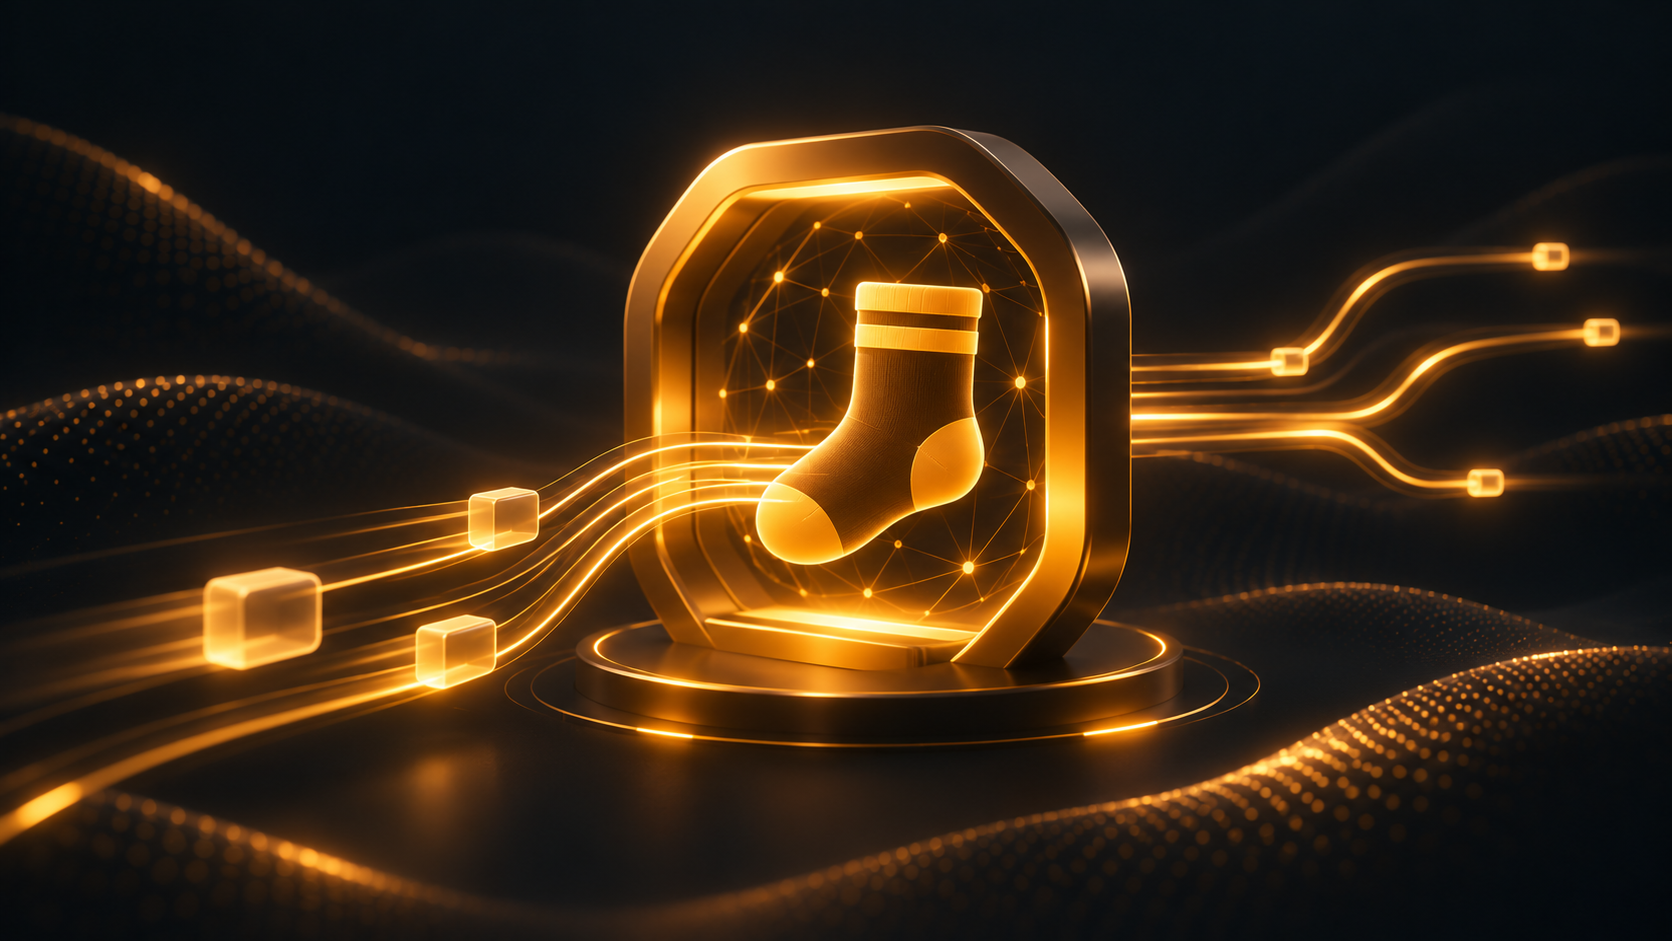
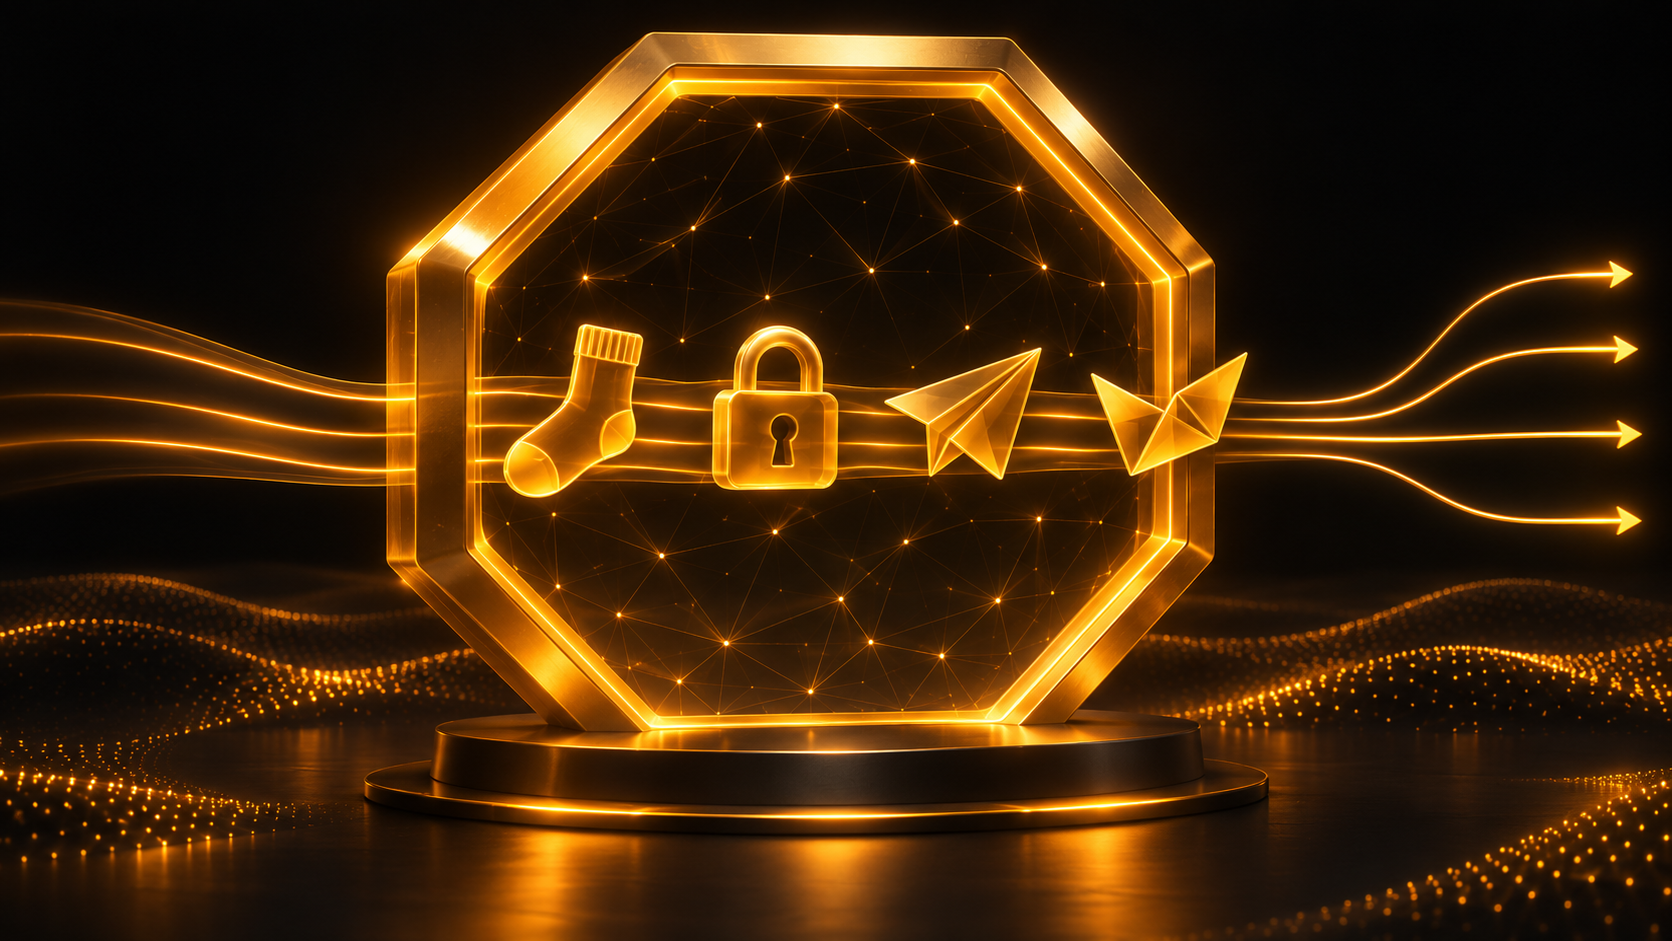
docs(readme): refresh documentation with v1.9.5 features and assets

diff --git a/README.md b/README.md
@@ -4,31 +4,34 @@
 
 </div>
 
-> **Self-hosted VPN dashboard.** Your VPS, your rules — no cloud provider or middlemen.
+> **Self-hosted VPN & proxy orchestration dashboard.** Your VPS nodes, your rules — no cloud provider or middlemen.
 
-Hoplyra is not just a panel for a single VPN. It is a **multi-hop chain builder**: you compose a route from different protocols and servers, and the system links the hops, configures routing, and delivers **one client config** — at the chain entry.
-
----
-
-## 🧅 AmneziaWG 3.1 — Default and Stealth
-
-Hoplyra speaks the full **AmneziaWG 3.1** protocol with two one-click modes:
-
-- **Default** — plain AWG 3.1 with no obfuscation, for networks where WireGuard is not filtered
-- **Stealth** — automatic obfuscation profile: junk packets (`Jc/Jmin/Jmax`), packet-size shifts (`S1–S4`), magic headers (`H1–H4`), and a CPS mimicry chain (`I1–I5`)
-
-Stealth ships **QUIC / TLS / DNS / SIP / STUN** mimicry profiles out of the box. Advanced 3.1 options are available when you need full control: **`HeaderProtectionKey`**, **`ContentPaddingAddition`**, **`RandomTrailers`**, **`DisableCookies`**.
+Hoplyra is not just a panel for a single VPN. It is a **multi-hop chain builder and node orchestrator**: compose routes from different protocols across your own servers, deploy standalone proxies or **Hysteria Realms** relay brokers, monitor node reachability, and deliver ready-to-import client configs from a single **Ink Amber** web UI.
 
 ---
 
-## 🔗 Chains
+## 🛡 Protocols
 
-A typical VPN is one tunnel to one server. Hoplyra lets you **combine multiple protocols into a single route** across your VPS nodes:
+| | ID | Protocol | Transport / Port | Highlights |
+|:-:|---|----------|------------------|------------|
+| <img src="frontend/src/assets/icons/amneziawg.png" width="72" alt="AmneziaWG"> | `awg` | **AmneziaWG 3.1** | `55424/udp` | Containerized; **Default** & **Stealth** modes, CPS mimicry (`I1–I5`), `HPK` |
+| <img src="frontend/src/assets/icons/wireguard.png" width="72" alt="WireGuard"> | `wg` | **WireGuard** | `51820/udp` | Containerized fast kernel/userspace tunnel, multi-peer, QR configs |
+| <img src="frontend/src/assets/icons/openvpn.png" width="72" alt="OpenVPN"> | `openvpn` | **OpenVPN** | `1194/udp` or `tcp` | Managed PKI, UDP/TCP profiles, multi-client `.ovpn` exports |
+| <img src="frontend/src/assets/icons/xray.png" width="72" alt="Xray"> | `xray` | **Xray VLESS** | `443/tcp` | TLS / **REALITY**, ClientHello fragmentation, Chrome fingerprint, multi-peer URIs |
+| <img src="frontend/src/assets/icons/hysteria2.png" width="72" alt="Hysteria 2"> | `hysteria2` | **Hysteria 2** | `443/udp` | QUIC congestion control, port hopping, cert pinning, multi-peer & QR |
+| <img src="frontend/src/assets/icons/shadowquic.png" width="72" alt="ShadowQUIC"> | `shadowquic` | **ShadowQUIC** | `443/udp` | **0-RTT** QUIC proxy with **JLS** TLS SNI camouflage and zero cert overhead |
+| <img src="frontend/src/assets/icons/tor.png" width="72" alt="Tor"> | `tor` | **Tor (SOCKS)** | `9050/tcp` | Relay hop or rotating-IP exit inside multi-hop chains |
 
-- **Mix protocols** — AWG, WireGuard, OpenVPN, Xray, and Tor in one chain, each hop on its own server
-- **One config for the client** — connect only to the entry; middle hops and exit are configured for you
-- **Tor in the chain** — as a relay hop or as an exit with a changing IP
-- **Smart deploy** — background deployment with hop-by-hop progress: gateway, iptables, containers, and inter-server links without manual SSH
+### 🧅 AmneziaWG 3.1 — Default and Stealth
+
+Hoplyra speaks full **AmneziaWG 3.1** in an isolated container (`hoplyra-awg:1`) with two one-click modes:
+
+- **Default** — plain AWG 3.1 without obfuscation when WireGuard is unfiltered
+- **Stealth** — automatic obfuscation profile: junk packets (`Jc/Jmin/Jmax`), packet-size shifts (`S1–S4`), magic headers (`H1–H4`), and CPS mimicry chains (`I1–I5`) with **QUIC / TLS / DNS / SIP / STUN** presets plus `HeaderProtectionKey`, `ContentPaddingAddition`, `RandomTrailers`, and `DisableCookies`
+
+---
+
+## 🔗 Multi-Chains
 
 <div align="center">
 
@@ -36,58 +39,56 @@ A typical VPN is one tunnel to one server. Hoplyra lets you **combine multiple p
 
 </div>
 
-**Common patterns:** `AWG → Tor → Xray`, **WireGuard → Xray → Tor**, **OpenVPN → Tor → AmneziaWG** — and many other combinations.
+| | Capability | How it works |
+|:-:|------------|--------------|
+| <img src="frontend/src/assets/icons/chain.png" width="72" alt="Multi-hop chains"> | **Cross-protocol routing** | Combine **AWG, WireGuard, OpenVPN, Xray, Hysteria 2, ShadowQUIC, and Tor** across separate VPS nodes into a single route |
+| <img src="frontend/src/assets/icons/servers.png" width="72" alt="Per-config isolation"> | **Side-by-side isolation** | Every deployment gets its own **container, interface, port, and subnet** — multiple configs coexist on the same server |
+| <img src="frontend/src/assets/icons/global.png" width="72" alt="Bypass RU split tunneling"> | **Bypass RU split tunneling** | Client-side exact 32-bit inverted IPv4 `AllowedIPs` routing so Russian domestic subnets go direct while everything else uses the tunnel |
+| <img src="frontend/src/assets/icons/activity2.png" width="72" alt="Live deploy leases and logs"> | **Resilient live deploy** | Background **multi-process SQLite leases** with heartbeats, crash recovery, and **real-time SSE deploy log drawer** with automatic secret redaction |
 
-Background deployments use **multi-process deploy leases** with heartbeats and crash recovery to coordinate workers and recover interrupted jobs.
-
-Multiple configurations can run **side by side on the same server** — each one gets its own **container, interface, port, and subnet**, so protocols never override each other.
-
-The web UI uses the **Ink Amber** dark theme, bento-style cards, and refreshed gold icons.
-
----
-
-## ⚙ Installation
-
-Hoplyra is a **server application** with a web UI. Deploy the backend on a Linux server — it serves the dashboard on one port.
-
-**Dependencies** (Debian / Ubuntu example):
-
-```bash
-sudo apt install make python3-venv podman podman-compose
-```
-
-**Install:**
-
-```bash
-git clone https://github.com/Linchevatel/Hoplyra.git
-cd Hoplyra
-make install
-```
-
-Open **https://YOUR_SERVER_IP:8787** (locally: **https://127.0.0.1:8787**) and sign in with **`admin` / `admin`**.
-
-**Container images:**
-
-| Image | Purpose |
-|-------|---------|
-| `hoplyra-gateway:1` | Xray + Tor + iptables (AWG/WG/OpenVPN chains) |
-| `hoplyra-tor:1` | Tor sidecar |
-| `hoplyra-xray:1` | Xray relay/exit |
-| `hoplyra-wg:1` | WireGuard in a container |
-| `hoplyra-openvpn:4` | OpenVPN + PKI |
-| `hoplyra-socks:1` | 3proxy sidecar for standalone SOCKS5 |
+**Common patterns:** `AWG → Tor → Xray`, `Xray → Tor → Xray`, `Hysteria 2 → Tor`, `ShadowQUIC → Tor`, `OpenVPN → AWG` — clients receive **one entry config** (with multi-peer management and live per-config traffic stats on the **Configs** page).
 
 ---
 
-## 📊 Status
+## 🌐 Hysteria Realms
 
-The **Status** tab shows live health of your control host and every added VPS:
+<div align="center">
 
-- **CPU, memory, disk, load average, uptime**, and network throughput
-- Per-server **latency** and container list where available
-- **Live polling** (~1s) when the API can reach servers over SSH
+![Hysteria Realms relay architecture](backend/assets/realms.png)
 
-Use it to spot overloaded nodes, offline hosts, and whether metrics collection is working before you deploy chains.
+</div>
+
+The **Hysteria Realms** tab orchestrates high-speed QUIC tunnel relays via a broker + agent architecture (`hoplyra-realm-server:1`):
+
+| | Feature | Purpose |
+|:-:|---------|---------|
+| <img src="frontend/src/assets/icons/realms.png" width="72" alt="Realm Broker"> | **Realm Broker** | Central control broker coordinating authenticated entry/exit relay nodes on your VPS fleet |
+| <img src="frontend/src/assets/icons/hysteria2.png" width="72" alt="QUIC Tunneling"> | **High-speed QUIC transport** | Low-latency UDP/QUIC forwarding resilient to packet loss on mobile and cross-border links |
+| <img src="frontend/src/assets/icons/chain.png" width="72" alt="Peer & Chain Tunnels"> | **Direct peer & chain tunnels** | Attach local SOCKS5/VPN entrypoints or chain downstream servers with health tracking and automatic teardown |
+
+---
+
+## 🧦 Proxies (VPN-Attached & Standalone)
+
+<div align="center">
+
+![Proxy flows](backend/assets/proxy.png)
+
+</div>
+
+The **Proxy** tab covers both **VPN/chain-attached SOCKS5** sidecars and **standalone containerized proxies** deployable directly onto any VPS with Docker or Podman:
+
+| | Type | Engine | Highlights |
+|:-:|------|--------|------------|
+| <img src="frontend/src/assets/icons/socks2.png" width="72" alt="Attached SOCKS5"> | **Attached SOCKS5** | `hoplyra-socks:1` (`3proxy`) | Toggle on/off **without redeploy** on any active VPN or multi-hop chain (`entry → … → exit`) |
+| <img src="frontend/src/assets/icons/socks.png" width="72" alt="Standalone SOCKS5"> | **Standalone SOCKS5** | `hoplyra-gost:1` (`gost`) | Auto-allocated port (`1080` default), optional auth, QR & `socks5://` share URI |
+| <img src="backend/assets/protocols/badges/https.png" width="72" alt="Secure HTTPS Proxy"> | **Secure HTTPS** | `hoplyra-gost:1` (`gost`) | HTTP/HTTPS `CONNECT` proxy over TLS (`8443` default), self-signed cert bundle, `https://` client URI |
+| <img src="backend/assets/protocols/badges/mtproto.png" width="72" alt="MTProto Fake-TLS"> | **MTProto Fake-TLS** | `hoplyra-mtg:2` (`mtg`) | Telegram proxy (`8443` default) with `ee…` **Fake-TLS** SNI camouflage and `tg://proxy` / `t.me/proxy` QR & links |
+| <img src="backend/assets/protocols/badges/shadowsocks.png" width="72" alt="Shadowsocks"> | **Shadowsocks** | `hoplyra-gost:1` (`gost`) | AEAD ciphers (`AEAD_CHACHA20_POLY1305`, `AEAD_AES_256_GCM`, `AEAD_AES_128_GCM`), `ss://` SIP002 URI & QR |
+
+---
+
+## 📊 Status & Censor Check
 
 <div align="center">
 
@@ -95,44 +96,69 @@ Use it to spot overloaded nodes, offline hosts, and whether metrics collection i
 
 </div>
 
+| | Tool | Capabilities |
+|:-:|------|--------------|
+| <img src="frontend/src/assets/icons/activity2.png" width="72" alt="Node telemetry"> | **Live Server Status** | Real-time SSH polling (~1s) for **CPU, RAM, disk, load average, uptime, network throughput, latency**, and running containers without head-of-line blocking |
+| <img src="backend/assets/protocols/badges/censor.png" width="72" alt="Censor Check"> | **Censor Check** | Active reachability & DPI/blocking probe from Russian network vantage points before you deploy configs onto a node |
+| <img src="frontend/src/assets/icons/servers.png" width="72" alt="SSH Vault"> | **Flexible SSH Auth** | Connect VPS nodes via **SSH private keys, system ssh-agent, or encrypted passwords** stored safely in SQLite |
+
 ---
 
-## 🧦 SOCKS5 proxy
-
-The **Proxy** tab exposes an optional **SOCKS5** server for every active VPN or chain:
-
-- **Purpose** — browser or app proxy through the same path as your VPN/chain (entry → … → exit)
-- **When** — config status is **active**; enable/disable **without redeploy**
-- **Where in UI** — **Proxy** tab: filter by all routes, chains, or single VPN; collapse/expand cards
+## 🔐 Security, Backups & Updates
 
 <div align="center">
 
-![SOCKS5 proxy flow](backend/assets/proxy.png)
+![Security, backups and updates](backend/assets/security.png)
 
 </div>
 
----
-
-## 🛡 Protocols
-
-| | ID | Protocol | Port |
-|:-:|---|----------|------|
-| <img src="backend/assets/protocols/badges/wg.png" width="44" alt="WireGuard"> | `wg` | **WireGuard** | 51820/udp |
-| <img src="backend/assets/protocols/badges/awg.png" width="44" alt="AmneziaWG"> | `awg` | **AmneziaWG 3.1** | 55424/udp |
-| <img src="backend/assets/protocols/badges/openvpn.png" width="44" alt="OpenVPN"> | `openvpn` | **OpenVPN** | 1194/udp or tcp |
-| <img src="backend/assets/protocols/badges/xray.png" width="44" alt="Xray"> | `xray` | **Xray VLESS + TLS / REALITY** | 443/tcp |
-| <img src="backend/assets/protocols/badges/tor.png" width="44" alt="Tor"> | `tor` | **Tor (SOCKS)** | 9050/tcp |
+| | Feature | Details |
+|:-:|---------|---------|
+| <img src="frontend/src/assets/icons/lock.png" width="72" alt="Panel security"> | **Panel Auth & Auto-HTTPS** | Local admin auth with **HTTP-only** secure session cookies, brute-force rate limiting (`Retry-After`), encrypted VPS credentials, and automatic TLS certs (`scripts/generate-ssl.sh`) |
+| <img src="frontend/src/assets/icons/two-factor.png" width="72" alt="TOTP 2FA"> | **Hardened 2FA (TOTP)** | Built-in RFC 6238 **TOTP authenticator** with offline QR code generation and single-use backup recovery codes |
+| <img src="frontend/src/assets/icons/backup.png" width="72" alt="Encrypted Backups"> | **Encrypted Backups** | Export and restore full Hoplyra state (servers, configs, chains, keys, proxies) from **Settings** |
+| <img src="backend/assets/protocols/badges/update.png" width="72" alt="1-Click Update"> | **1-Click System Update** | Check GitHub releases and upgrade Hoplyra in place from the **Settings** tab with **hardened automatic rollback** on failure |
 
 ---
 
-## 🔐 Panel login
+## ⚙ Installation
 
-The dashboard is protected by a **local administrator account** (not a cloud signup):
+Hoplyra is a **self-hosted Linux server application** serving both the API and web UI on a single HTTPS port (`8787`).
 
-- After `make install`, sign in at **https://YOUR_SERVER_IP:8787** (or **https://127.0.0.1:8787**) with **`admin` / `admin`**
-- **Change the password** in **Settings** on first use
-- Sessions use **HTTP-only cookies** (Secure flag on HTTPS); SSH passwords for VPS are stored **encrypted** in the local SQLite database
-- **HTTPS** is enabled automatically — certificates are generated on `make install` (`scripts/generate-ssl.sh`), or use an Nginx/Caddy reverse proxy
+**Dependencies** (Debian / Ubuntu example):
+
+```bash
+sudo apt install make python3-venv podman podman-compose
+```
+
+*(Docker + Docker Compose are also supported on managed VPS nodes.)*
+
+**Install & Start:**
+
+```bash
+git clone https://github.com/Linchevatel/Hoplyra.git
+cd Hoplyra
+make install
+```
+
+Open **https://YOUR_SERVER_IP:8787** (locally: **https://127.0.0.1:8787**), sign in with **`admin` / `admin`**, then immediately **change your password** and enable **2FA** in **Settings**.
+
+**Container images:**
+
+| Image | Purpose |
+|-------|---------|
+| `hoplyra-gateway:1` | Xray + Tor + iptables gateway for AWG/WG/OpenVPN chains |
+| `hoplyra-tor:1` | Tor relay & rotating-exit sidecar |
+| `hoplyra-xray:1` | Xray VLESS + TLS / REALITY relay & exit |
+| `hoplyra-wg:2` | WireGuard containerized server |
+| `hoplyra-awg:1` | AmneziaWG 3.1 containerized server |
+| `hoplyra-openvpn:5` | OpenVPN + PKI server |
+| `hoplyra-hysteria2:1` | Hysteria 2 QUIC server |
+| `hoplyra-shadowquic:1` | ShadowQUIC 0-RTT QUIC + JLS server |
+| `hoplyra-realm-server:1` | Hysteria Realms broker & tunnel agent |
+| `hoplyra-socks:1` | `3proxy` sidecar for VPN/chain-attached SOCKS5 |
+| `hoplyra-gost:1` | `gost` server for standalone SOCKS5, Secure HTTPS, and Shadowsocks |
+| `hoplyra-mtg:2` | `mtg` v2 server for MTProto Fake-TLS proxies |
 
 ---
 
